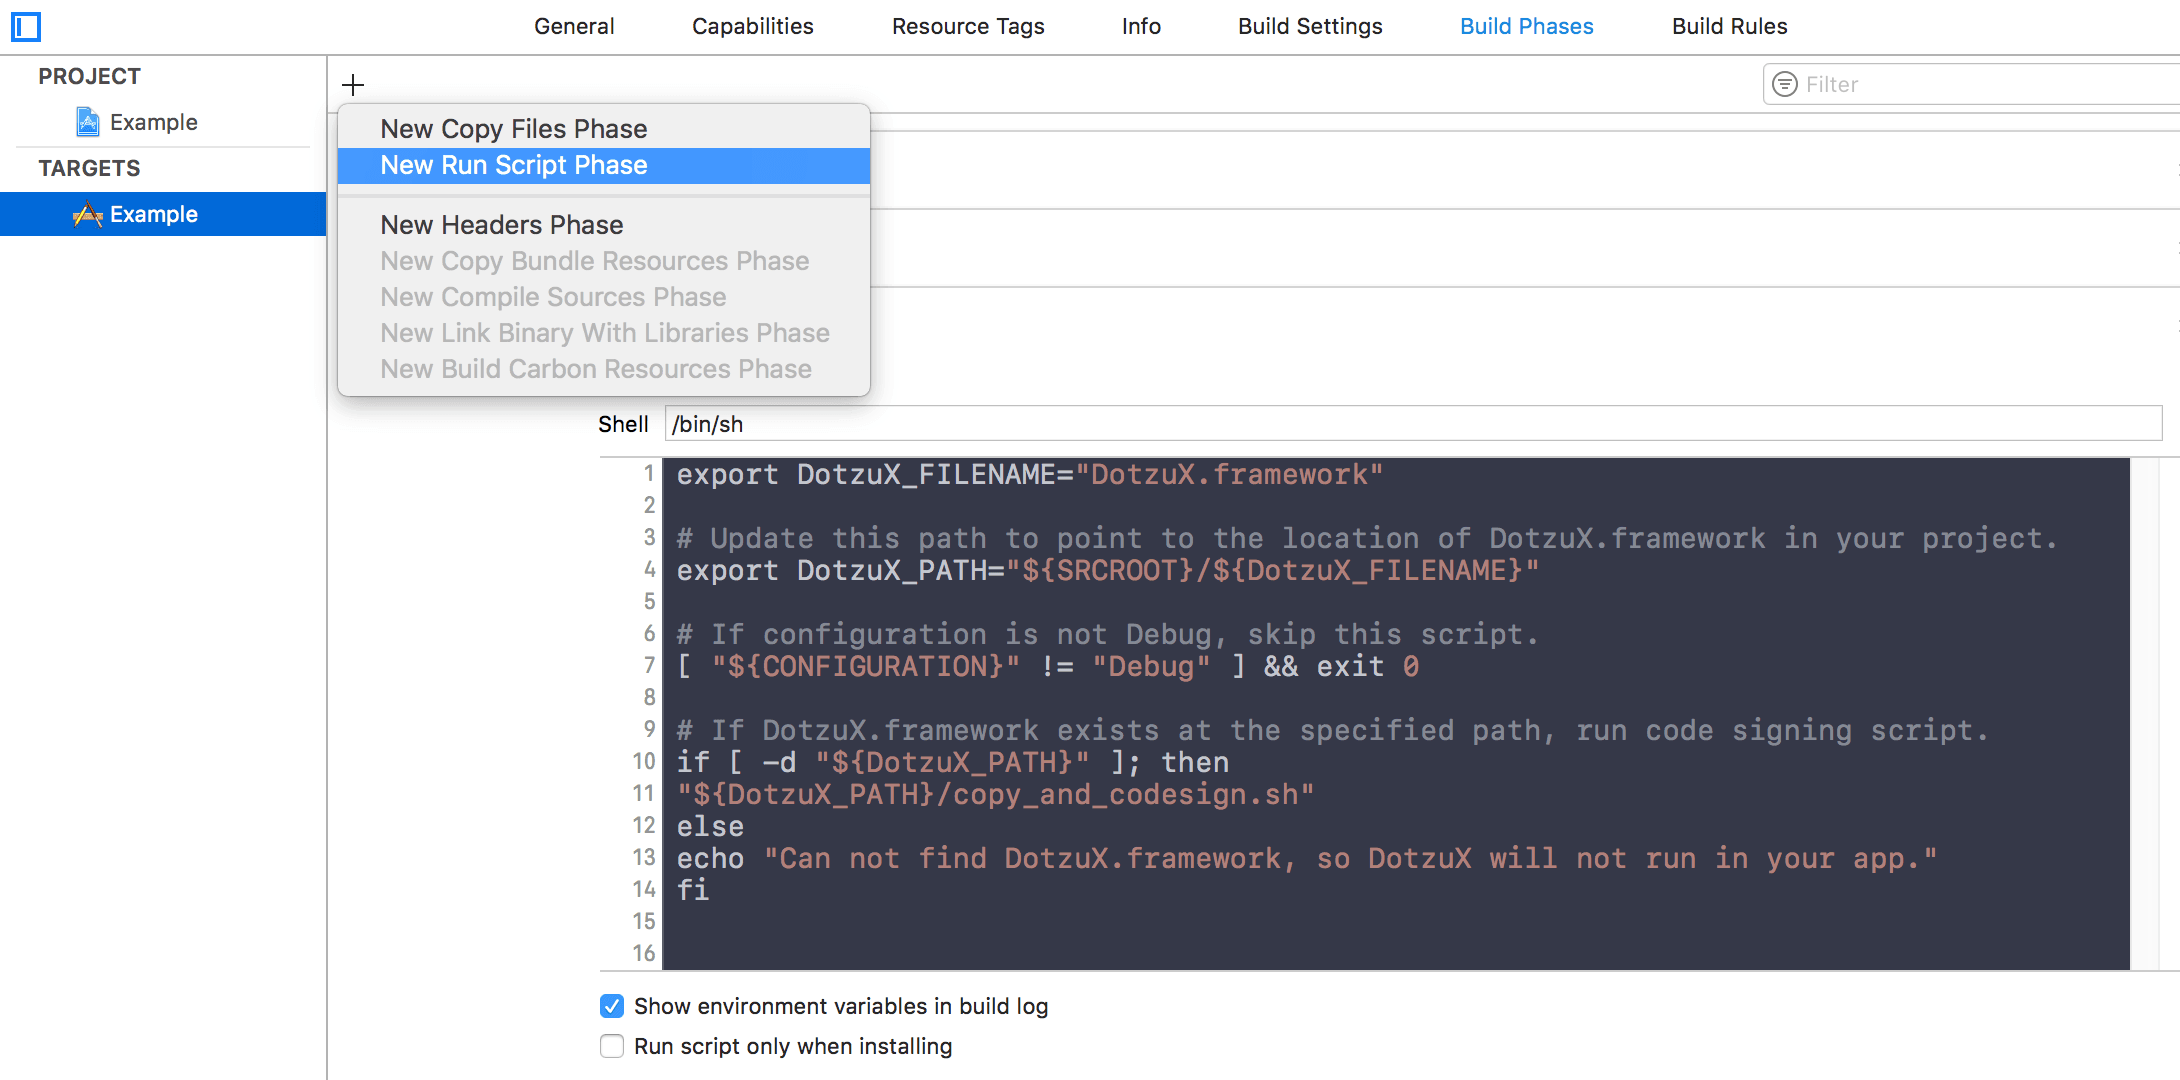
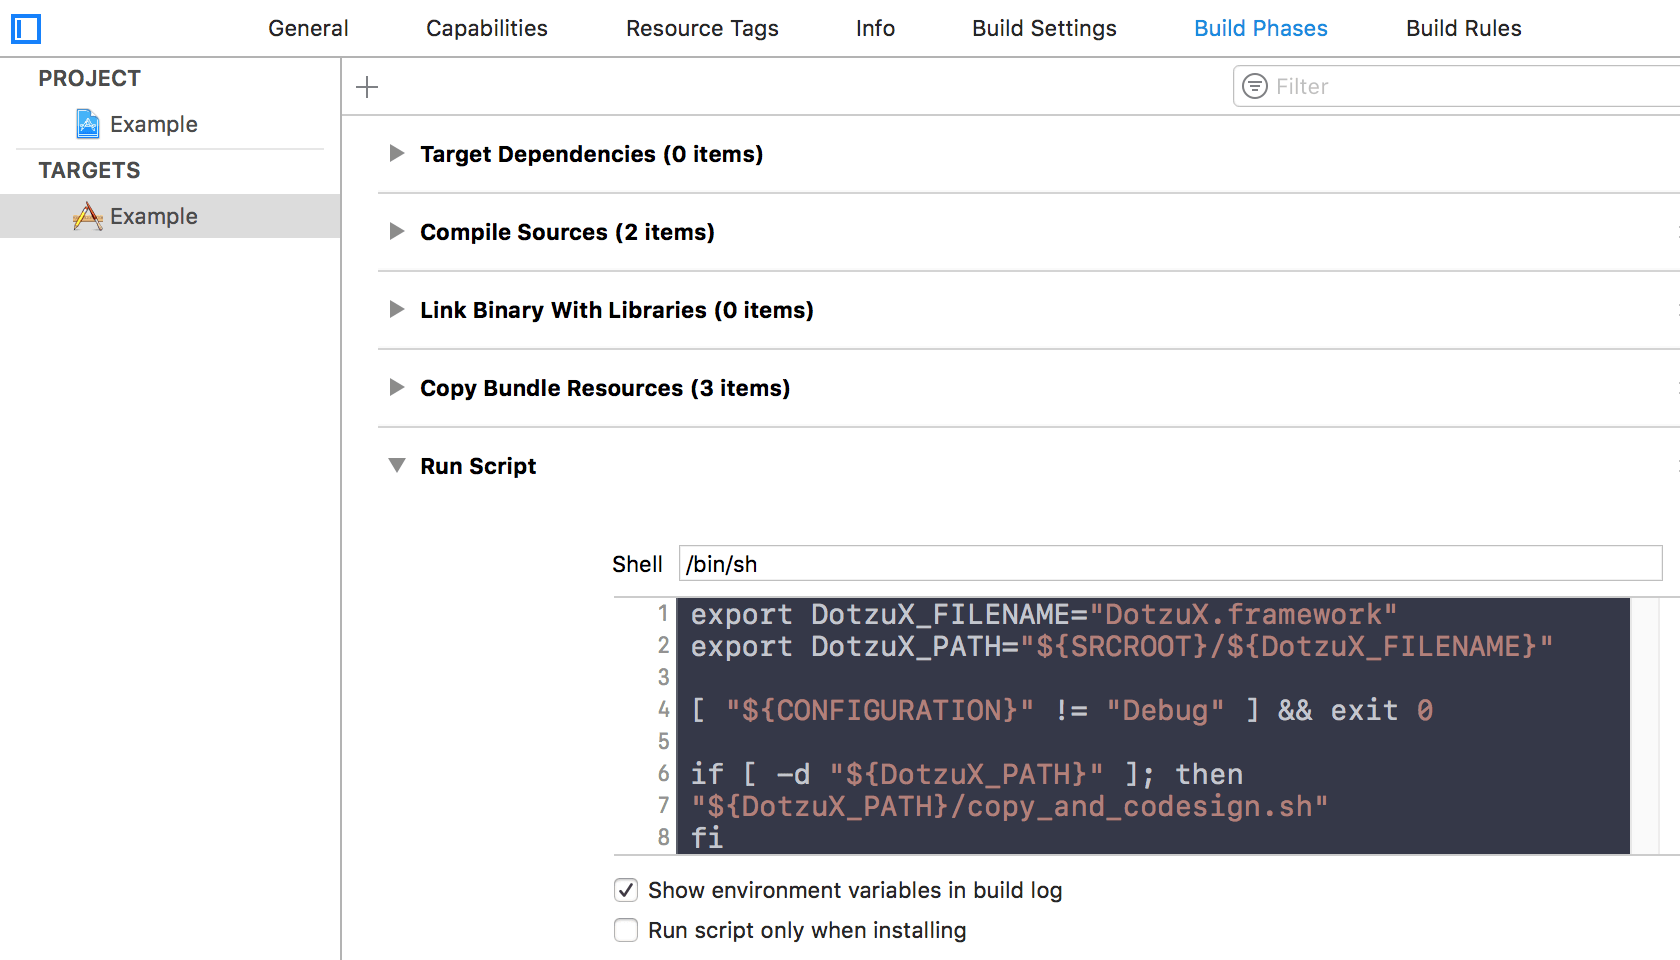
Integration Guide

Changed region(s): [[0.0, 0.0, 1.0, 1.0]]

diff --git a/Integration Guide/Integration Guide.md b/Integration Guide/Integration Guide.md
@@ -2,11 +2,15 @@
 
 - Copy DotzuX.framework to the root directory of your project in Finder.
 
+	> Note: If integrated by Carthage, don't need to do this. Just check here `YourProjectFolder/Carthage/Build/iOS/DotzuX.framework`
+
 	![](https://raw.githubusercontent.com/DotzuX/DotzuX/master/Integration%20Guide/1.png)
 
 - Select the Build Settings tab and add the following to the Debug configuration of the Framework Search Paths (`FRAMEWORK_SEARCH_PATHS`) setting:
 
 	`$(inherited) $(SRCROOT)`
+	
+	> Note: If integrated by Carthage, use this instead `$(inherited) $(SRCROOT)/Carthage/Build/iOS`
 	
 	![](https://raw.githubusercontent.com/DotzuX/DotzuX/master/Integration%20Guide/2.png)
 
@@ -25,20 +29,14 @@
 - Select the Build Phases tab and add a new Run Script phase. Paste in the following shell script:
 
 	    export DotzuX_FILENAME="DotzuX.framework"
-	
-	    # Update this path to point to the location of DotzuX.framework in your project.
 	    export DotzuX_PATH="${SRCROOT}/${DotzuX_FILENAME}"
 	
-	    # If configuration is not Debug, skip this script.
 	    [ "${CONFIGURATION}" != "Debug" ] && exit 0
 	
-	    # If DotzuX.framework exists at the specified path, run code signing script.
 	    if [ -d "${DotzuX_PATH}" ]; then
 	    "${DotzuX_PATH}/copy_and_codesign.sh"
-	    else
-	    echo "Can not find DotzuX.framework, so DotzuX will not run in your app."
 	    fi
 
-	>Note: If you choose to keep DotzuX.framework elsewhere, follow the comments in the script to update the DotzuX_PATH environment variable.
+	> Note: If integrated by Carthage, use this instead in line 2 `export DotzuX_PATH="${SRCROOT}/Carthage/Build/iOS/${DotzuX_FILENAME}"`
 	
 	![](https://raw.githubusercontent.com/DotzuX/DotzuX/master/Integration%20Guide/5.png)

diff --git a/README.md b/README.md
@@ -38,7 +38,7 @@ end
 github "DotzuX/DotzuX"
 ```
 
->WARNING: Never ship a product which has been linked with the DotzuX.framework. This [Integration Guide](https://github.com/DotzuX/DotzuX/blob/master/Integration%20Guide/Integration%20Guide.md) outline a way to use build configurations to isolate linking the framework to Debug builds.
+> WARNING: Never ship a product which has been linked with the DotzuX.framework. This [Integration Guide](https://github.com/DotzuX/DotzuX/blob/master/Integration%20Guide/Integration%20Guide.md) outline a way to use build configurations to isolate linking the framework to Debug builds.
 
 ## Usage
 
@@ -82,7 +82,7 @@ github "DotzuX/DotzuX"
     #endif
 
 
->For more advanced usage, check `Example_Swift.xcodeproj` and `Example_Objc.xcodeproj`.
+> For more advanced usage, check `Example_Swift.xcodeproj` and `Example_Objc.xcodeproj`.
 
 ## TODO
 
